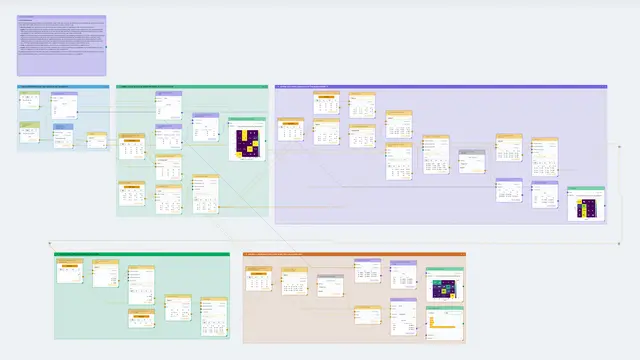
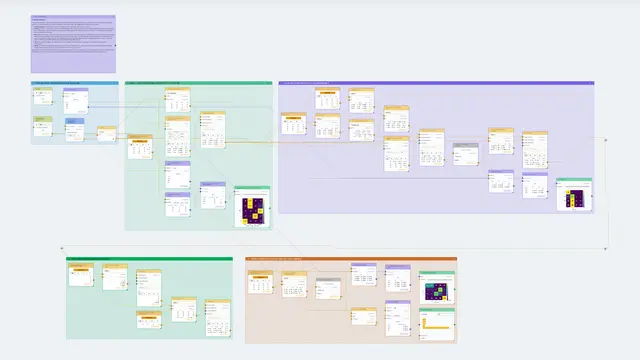
A tiny transformer: real positions, a clean hidden unit, a plain note
Positions are the sines and cosines of the original transformer, computed
by a MAKEARRAY sized by the prompt's length, where a table of made-up
numbers and a TAKE stood. The MLP's hidden unit means one thing, a
preposition, so every position now predicts its next word clearly: cat or
mat after the, sat after cat (60%), on after sat (54%), the after on
(71%). The intro explains each stage plainly and says once that the
weights are set by hand; both of its try-this suggestions are checked.

Claude-Session: https://claude.ai/code/session_01BJp3bVxkbipBMgN4iahjkg

Changed region(s): [[0.0, 0.0306, 0.9688, 0.6417], [0.0625, 0.6722, 0.75, 0.9472]]

diff --git a/docs/dev-notes.md b/docs/dev-notes.md
@@ -94,15 +94,16 @@ specific item.
   `frame_verbs.rs`): it skipped the whole column with no notice. The card never errors over one replacement; the
   frame holds the truth, and a total over the column says so.
 - **A tiny transformer, a new example** (`seedGraphs/tiny-transformer.json`, Worked examples): one layer and one head
-  in five stages, each a group ending in its picture, built from table cards with no Expressions: XMATCH finds
-  each typed word in the (alphabetical) vocabulary and CHOOSEROWS picks its embedding row, so editing the prompt moves every answer;
-  MMULT, TRANSPOSE, MAP (`value + value2`, `MAX(0, value)`) and a MAKEARRAY mask do the rest, sized by a COUNT of the
-  prompt. Both softmaxes are one Composite: MAP `EXP(value)`, a BYROW of `1 / SUM(values)`, TOROW, DIAGONAL, and MMULT of
-  that diagonal by the table, which scales each row to sum to 1 (MAP wants equal shapes, so it can't spread a column). Every card earns its place (2026-11-10 pass): no identity W_V (the values are X), a one-unit MLP
-  (W_1 4×1, W_2 1×4), INDEX at row Length for the last word's row. Labeled
-  heatmaps show the embedding table (columns named article, noun, verb, preposition, so cat and mat look alike), attention and predictions, and a bar chart the last word's prediction. Two rows, H on
-  three rotated Conduits. Building it found Frame from Lists failing on a table through
-  TAKE's untyped output, `run-graph` and `seedsCompute.test.ts` never hydrating a Composite (both do now), and the grounding listing TOROW under TableSelect.
+  in five stages, each a group ending in its picture, built from table cards with no Expressions. XMATCH finds each
+  typed word in the (alphabetical) vocabulary and CHOOSEROWS picks its embedding row, so editing the prompt moves every
+  answer; positions are the paper's sines and cosines from a MAKEARRAY sized by a COUNT of the prompt (scaled by 0.1 to
+  sit under the hand-set embeddings); MMULT, TRANSPOSE, MAP and a MAKEARRAY mask do the rest. Both softmaxes are one
+  Composite: MAP `EXP(value)`, BYROW `1 / SUM(values)`, TOROW, DIAGONAL, MMULT. No identity W_V (the words are mixed
+  directly), a one-unit MLP that switches on for a preposition, INDEX at row Length for the last word's row. Heatmaps show
+  the embedding table (columns named article, noun, verb, preposition, so cat and mat look alike), the attention and the
+  predictions; a bar chart the last word's. Two rows, H on three rotated Conduits. Building it found Frame from Lists
+  failing on a table through TAKE's untyped output, the grounding listing TOROW under TableSelect, and `run-graph` and
+  `seedsCompute.test.ts` never hydrating a Composite (both do now).
 - **A new feature is never a new leaf** (the author, 2026-11-10; `docs/dte.md` § What is a leaf and what is a spec,
   `CLAUDE.md`, the leaf-check hook): a feature and its design go in its spec; a leaf is added unasked only for a
   product decision (the author overriding conventional wisdom, or answering a contested, high-stakes question).
